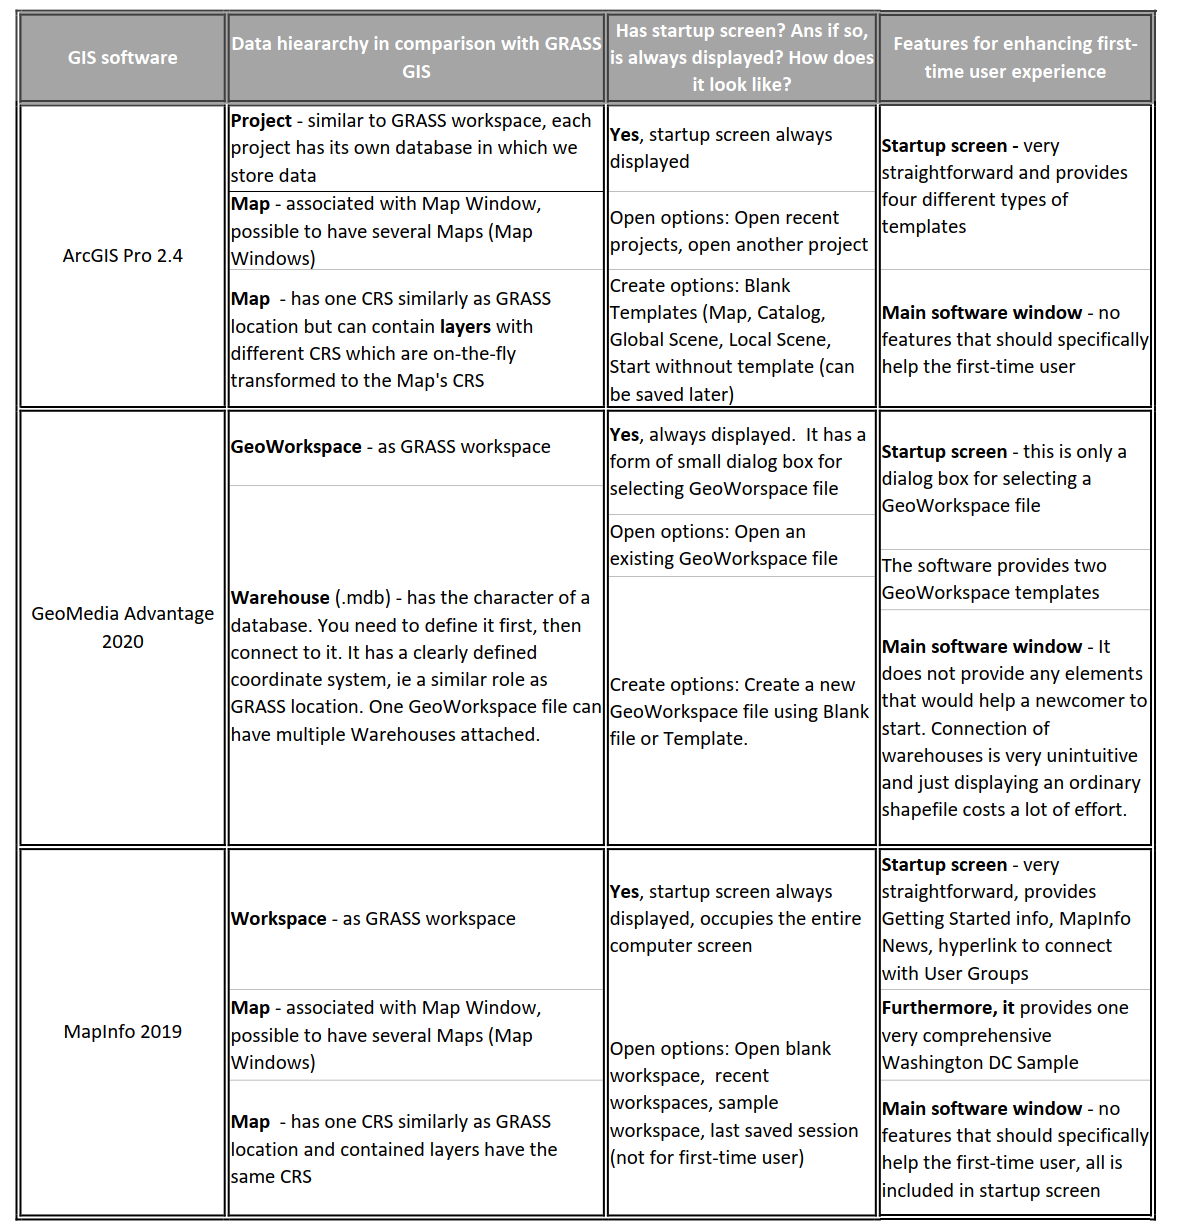
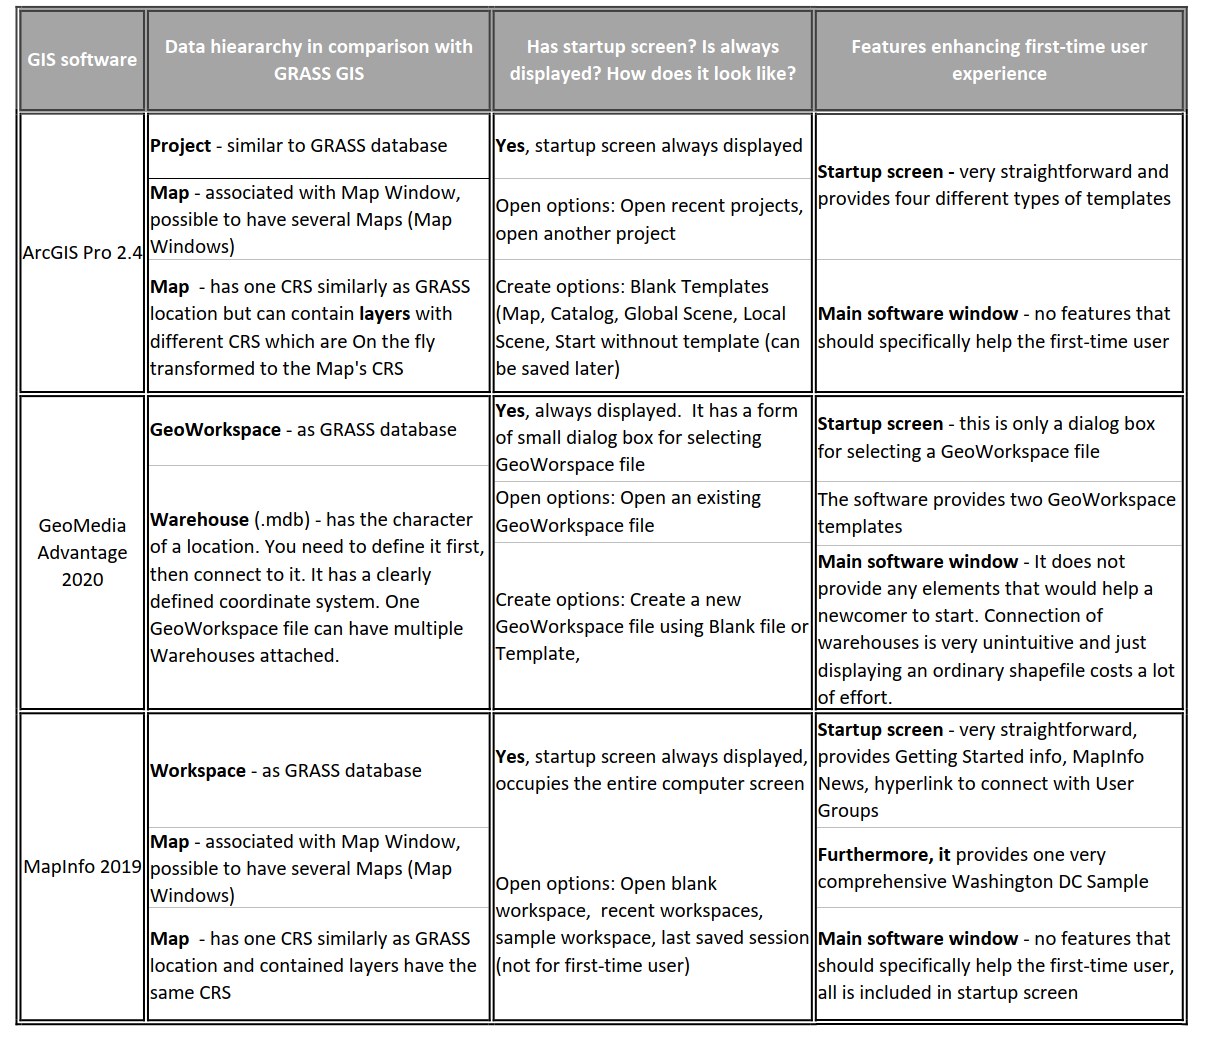
Edits of chapter 2 and uppercases for references

diff --git a/text/linda-kladivova-dp-2021.tex b/text/linda-kladivova-dp-2021.tex
@@ -1059,8 +1059,8 @@ is missing.
 \vspace{0.3cm}
 \begin{figure}[hbt!] 
 \begin{center}
-\includegraphics[width=12cm]{../pictures/workspace_grass.png} 
-\caption[Management of workspaces in the Layer Manager]{Management of workspaces in the Layer Manager (Source: Personal collection)}
+\includegraphics[width=13cm]{../pictures/workspace_grass.png} 
+\caption[Management of workspaces in Layer Manager]{Management of workspaces in Layer Manager (Source: Personal collection)}
 \label{fig:workspace_grass}
 \end{center}
 \end{figure}
@@ -1180,6 +1180,7 @@ experience.
 \noindent In Figures \ref{fig:hodnoceni_all} and
 \ref{fig:hodnoceni_free} we can see graphs of the 10 highest rated GIS
 % ML: in following text you are using "open-source" term rather than "free"
+% LK: changed
 software and the 10 highest rated Free GIS software in 2020, as stated
 in the evaluation taken by GIS Geography online journal
 \cite{gisgeography}. The evaluation is performed on a point scale from
@@ -1211,7 +1212,7 @@ significantly.
 \noindent For the following analysis, the three highest-rated
 proprietary software were selected - ArcGIS Pro (ESRI), GeoMedia
 (Hexagon), and MapInfo Professional (Pitney Bowes) as well as the four
-highest-rated open-source software (excluding QGIS 2 and GRASS
+highest-rated free software (excluding QGIS 2 and GRASS
 GIS). The software is analyzed using the following three questions:
 
 \begin{itemize}
@@ -1231,7 +1232,7 @@ summarized in Figure \ref{fig:proprietary_software}.
 \vspace{0.3cm}
 \begin{figure}[hbt!] 
 \begin{center}
-\includegraphics[width=16.5cm]{../pictures/proprietary_software.png}
+\includegraphics[width=17cm]{../pictures/proprietary_software.png}
 \caption[Summary of selected proprietary software]{Summary of selected proprietary software (Source: Personal collection)}
 \label{fig:proprietary_software}
 \end{center}
@@ -1242,7 +1243,8 @@ most interesting deeds are the startup screens of the ArcGIS Pro 2.4
 and MapInfo 2019 software. The startup screen of MapInfo 2019 (see
 Figure \ref{fig:map_info_startup_screen}) atypically occupies the size
 % ML: skip "new" 
-of the entire computer screen. It provides links to new version news
+% LK: skipped
+of the entire computer screen. It provides links to news
 or links to videos on YouTube that can help first-time users. In the
 upper right part of the startup screen, it is possible to run help,
 which has the character of a separate desktop application. In the left
@@ -1268,8 +1270,9 @@ open recently saved projects or select from pre-prepared templates
 (Map (standard), Catalog, Global scene, and Local scene). Another
 option is to select an empty sheet.
 
-The information obtained about open-source GIS software is summarized
-in Figure \ref{fig:open-source_software}. In terms of improving the
+The information obtained about free GIS software is summarized
+in Figures \ref{fig:open-source_software}, \ref{fig:grass_gis_software}. 
+In terms of improving the
 first-time user experience, QGIS 3 is the most interesting. After the
 introduction, the user is redirected to the main software window
 informing him about community events and improvements. Here the user
@@ -1292,9 +1295,18 @@ QGIS users.
 \vspace{0.3cm}
 \begin{figure}[hbt!] 
 \begin{center}
-\includegraphics[width=15cm]{../pictures/open-source_software.png} 
-\caption[Summary of selected open-source software and GRASS GIS]{Summary of selected open-source software and GRASS GIS (Source: Personal collection)}
+\includegraphics[width=16.5cm]{../pictures/open-source_software.png} 
+\caption[Summary of selected free GIS software]{Summary of selected free GIS software (Source: Personal collection)}
 \label{fig:open-source_software}
+\end{center}
+\end{figure}
+
+\vspace{0.3cm}
+\begin{figure}[hbt!] 
+\begin{center}
+\includegraphics[width=16.5cm]{../pictures/grass_gis_software.png} 
+\caption[Summary of GRASS GIS software]{Summary of GRASS GIS software (Source: Personal collection)}
+\label{fig:grass_gis_software}
 \end{center}
 \end{figure}
 
@@ -1305,12 +1317,12 @@ QGIS 3 -- have similar data organization into projects. However, in
 the data hierarchy of the other two proprietary software GeoMedia and
 MapInfo, the term `` project '' does not appear at all. It is
 therefore good to realize that we may consider `` project '' as a
-standard element of data organization, especially for open-source
+standard element of data organization, especially for free GIS
 software, but after looking at proprietary software we find out that
 data organization across software is surprisingly different not only
 from a technical point of view but also in terms of different names.
 
-\newpage \noindent Startup screens appear in some form in all selected
+Startup screens appear in some form in all selected
 proprietary software. For GeoMedia, it is a small dialog box whose
 purpose is purely organizational -- choose the GeoWorkspace you will
 work in. For ArcGIS Pro and MapInfo, startup screens play a more
@@ -2270,7 +2282,7 @@ functionality often, not on the general belief, which can be distorted
 by the fact that in other software this functionality is a matter of
 % ML: commercial -> proprietary
 % LK: changed in the whole thesis
-course. Among highly evaluated proprietary and open-source software by
+course. Among highly evaluated proprietary and free software by
 GIS Geography \cite{gisgeography} (ArcGIS Pro, Geomedia Advantage,
 % ML: is there a need to provide QGIS version?
 % LK: no need
@@ -2455,7 +2467,7 @@ call) and the only agreement is that the concept of
 \textit{database/location/mapset} is abstruse to new users. The truth
 is that if database/location/mapset were named differently and more
 intuitively (for instance \textit{database/project/subproject}) and
-thus closer to the standard of other open-source software, then the
+thus closer to the standard of other free GIS software, then the
 word ``old'' would not be part of the criticism. Therefore, perhaps
 the most feasible proposal that will not interfere so much with the
 implementation of GRASS is to maintain the concept but to change the
